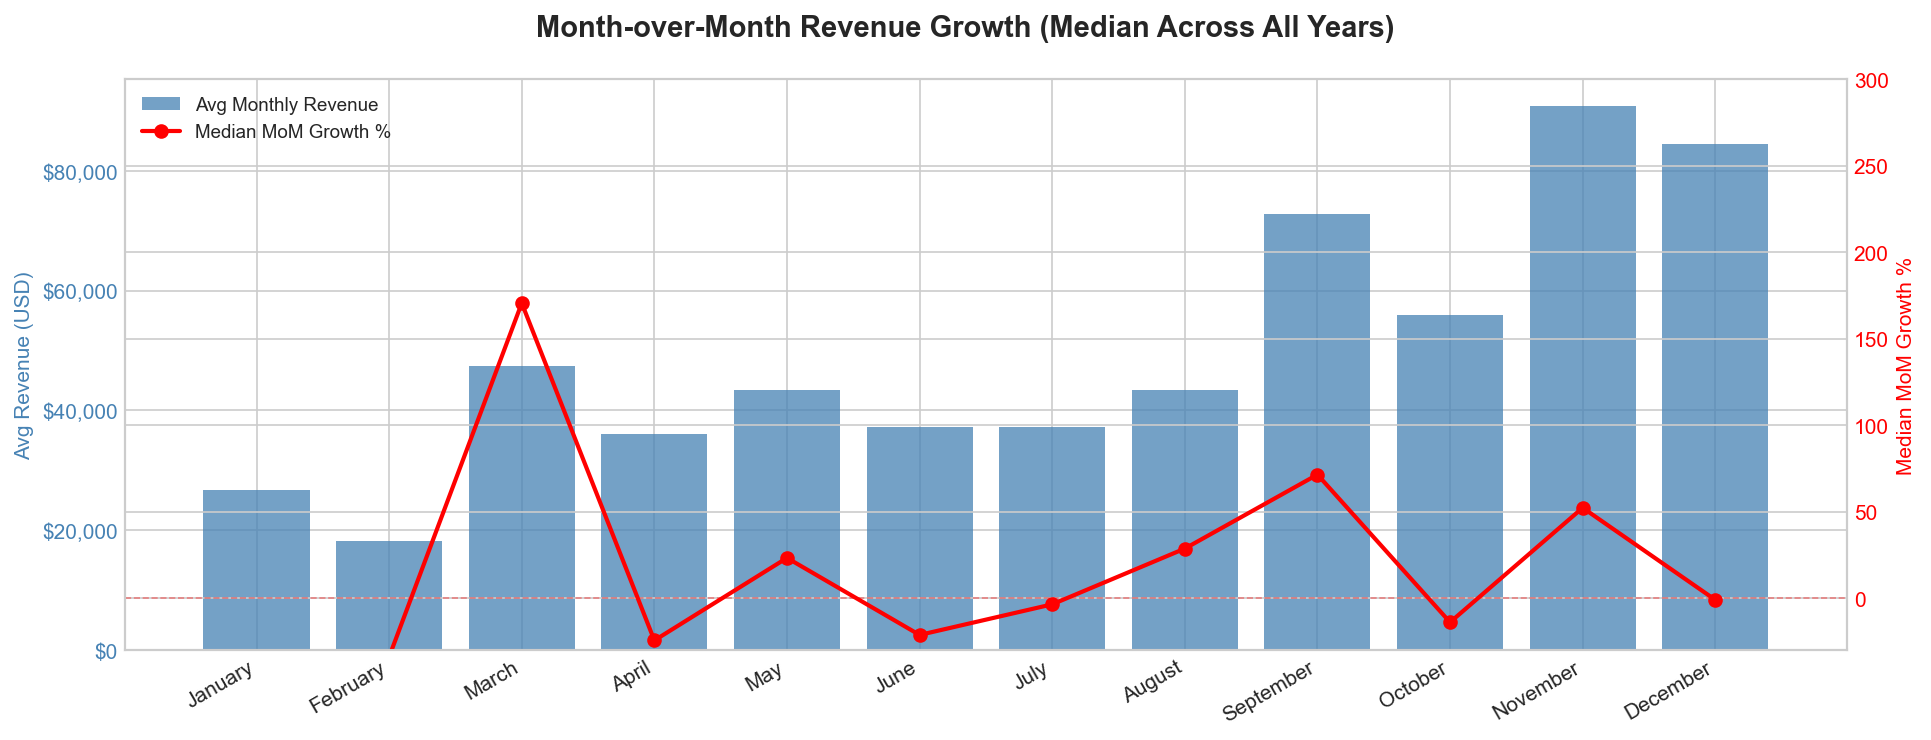
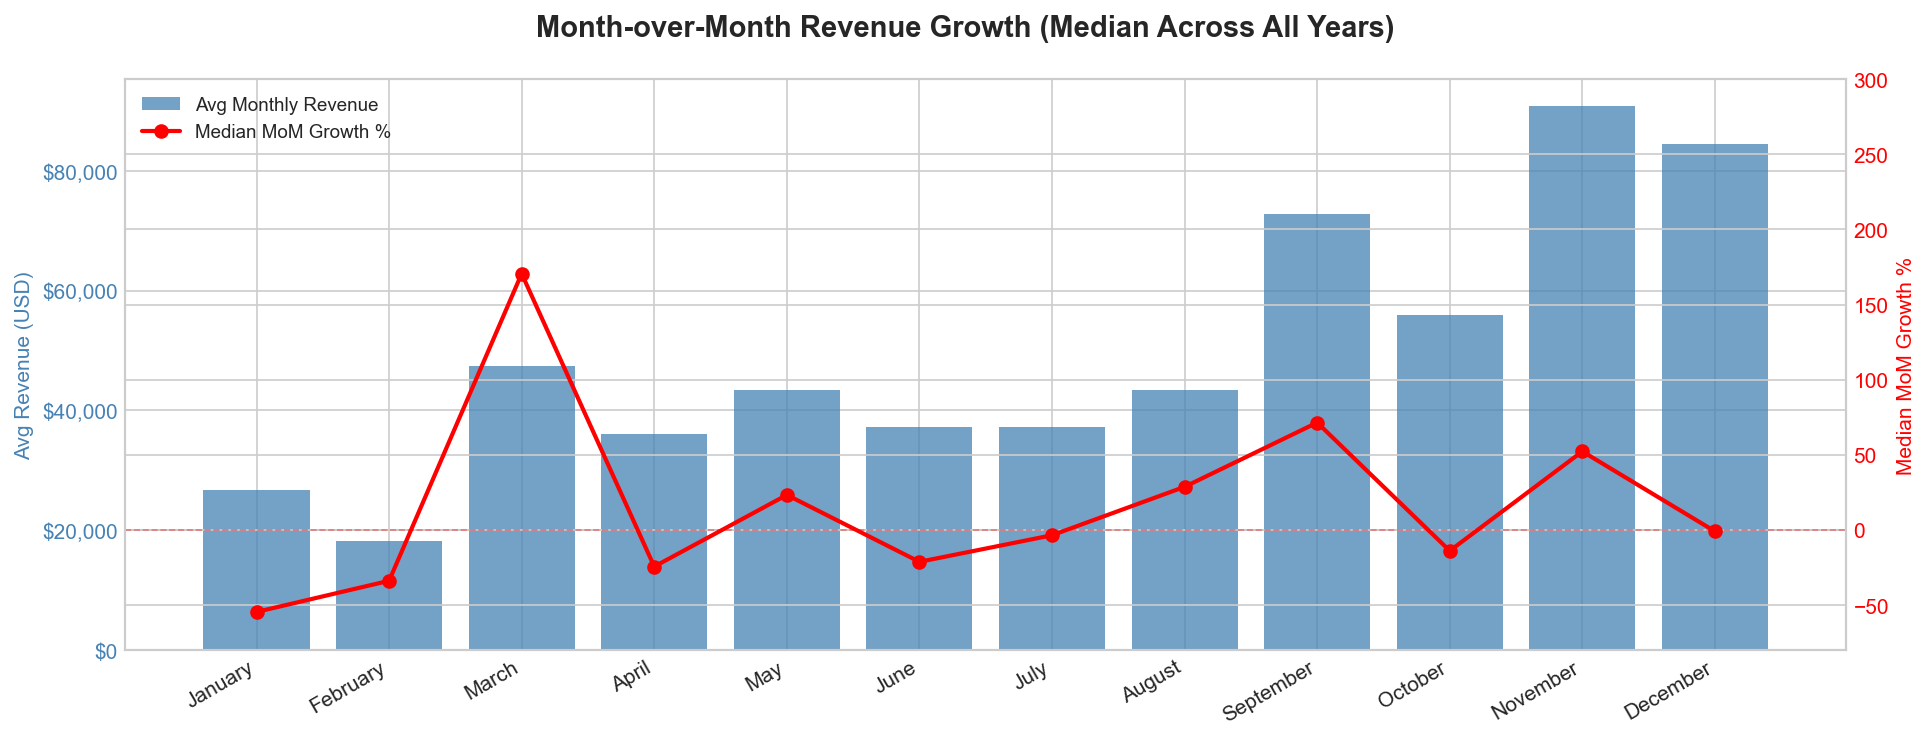
modified:   analysis/charts/chart_mom_growth.png modified:   analysis/visualize.py

diff --git a/analysis/visualize.py b/analysis/visualize.py
@@ -192,7 +192,7 @@ ax2.plot(months, growth_vals, color="red", marker="o",
 ax2.axhline(0, color="red", linestyle="--", linewidth=0.8, alpha=0.4)
 ax2.set_ylabel("Median MoM Growth %", color="red", fontsize=10)
 ax2.tick_params(axis="y", labelcolor="red")
-ax2.set_ylim(-30, 300)
+ax2.set_ylim(-80, 300)
 
 lines1, labels1 = ax1.get_legend_handles_labels()
 lines2, labels2 = ax2.get_legend_handles_labels()
